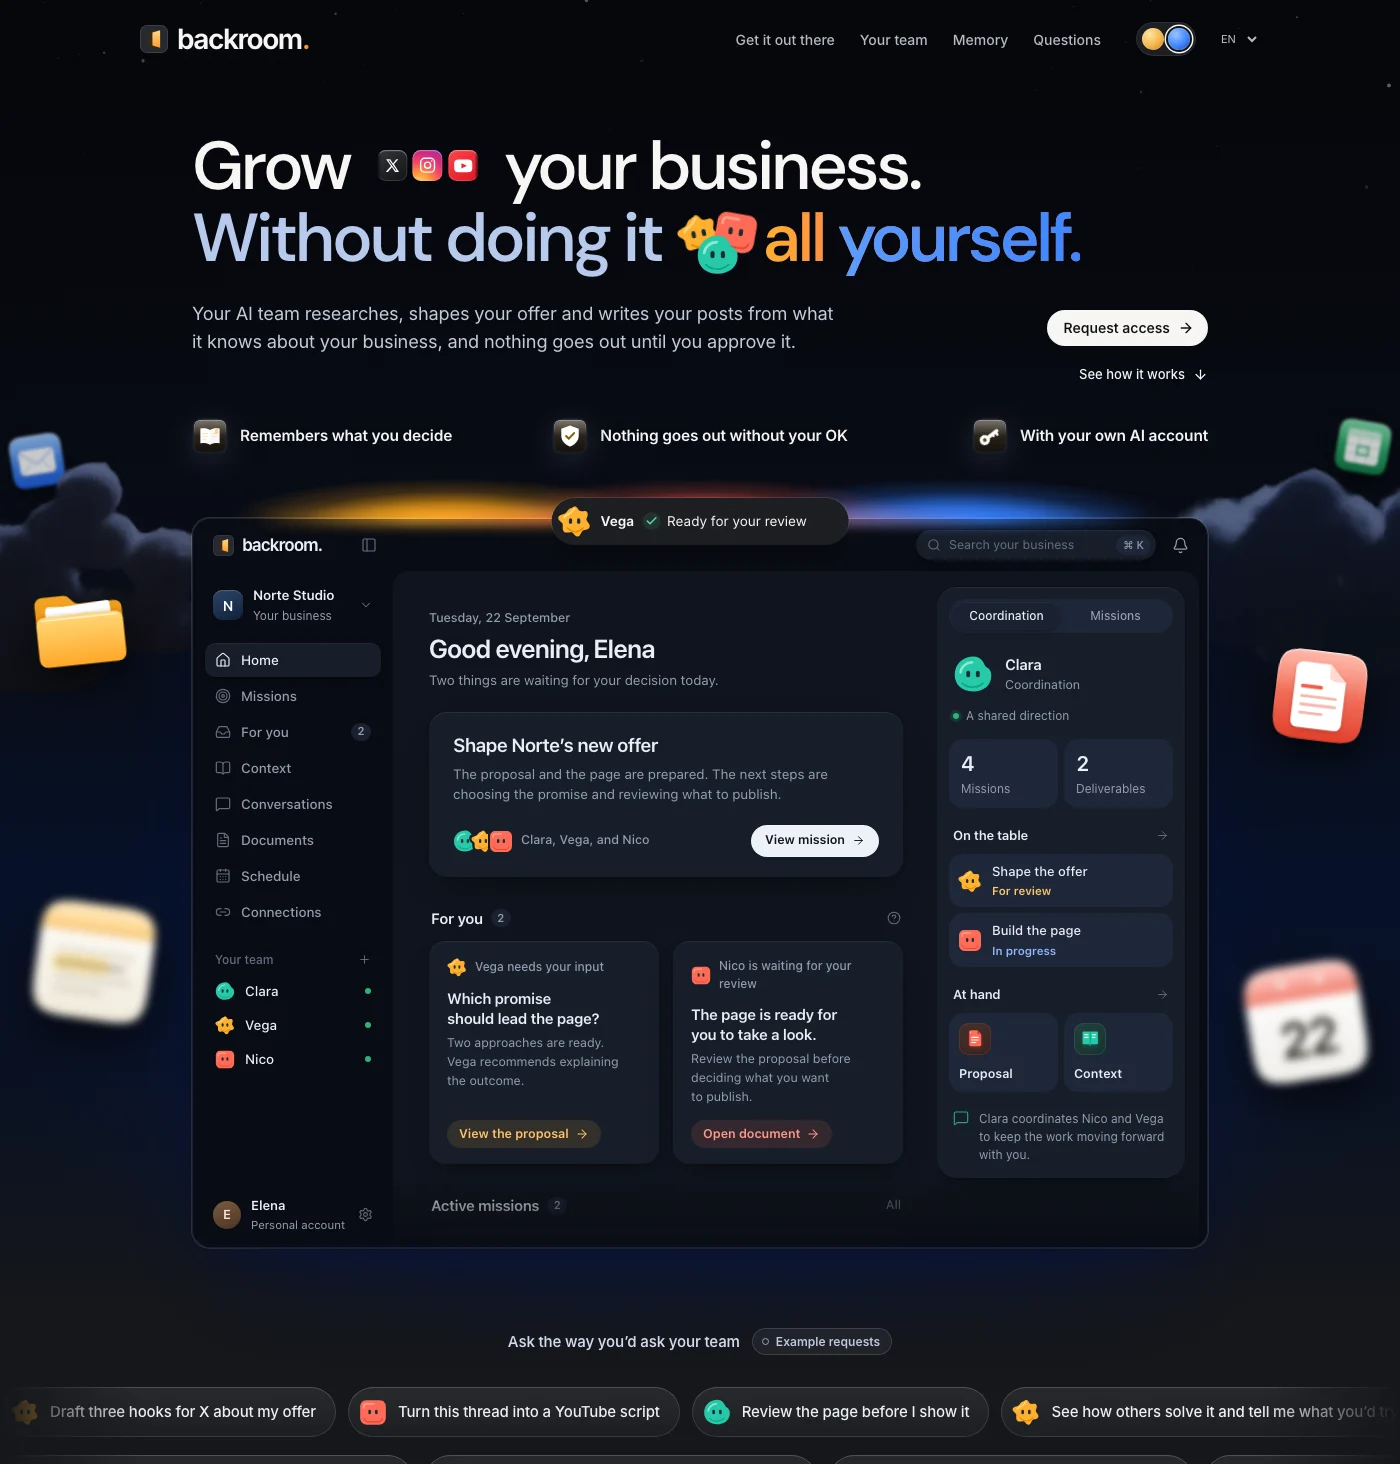
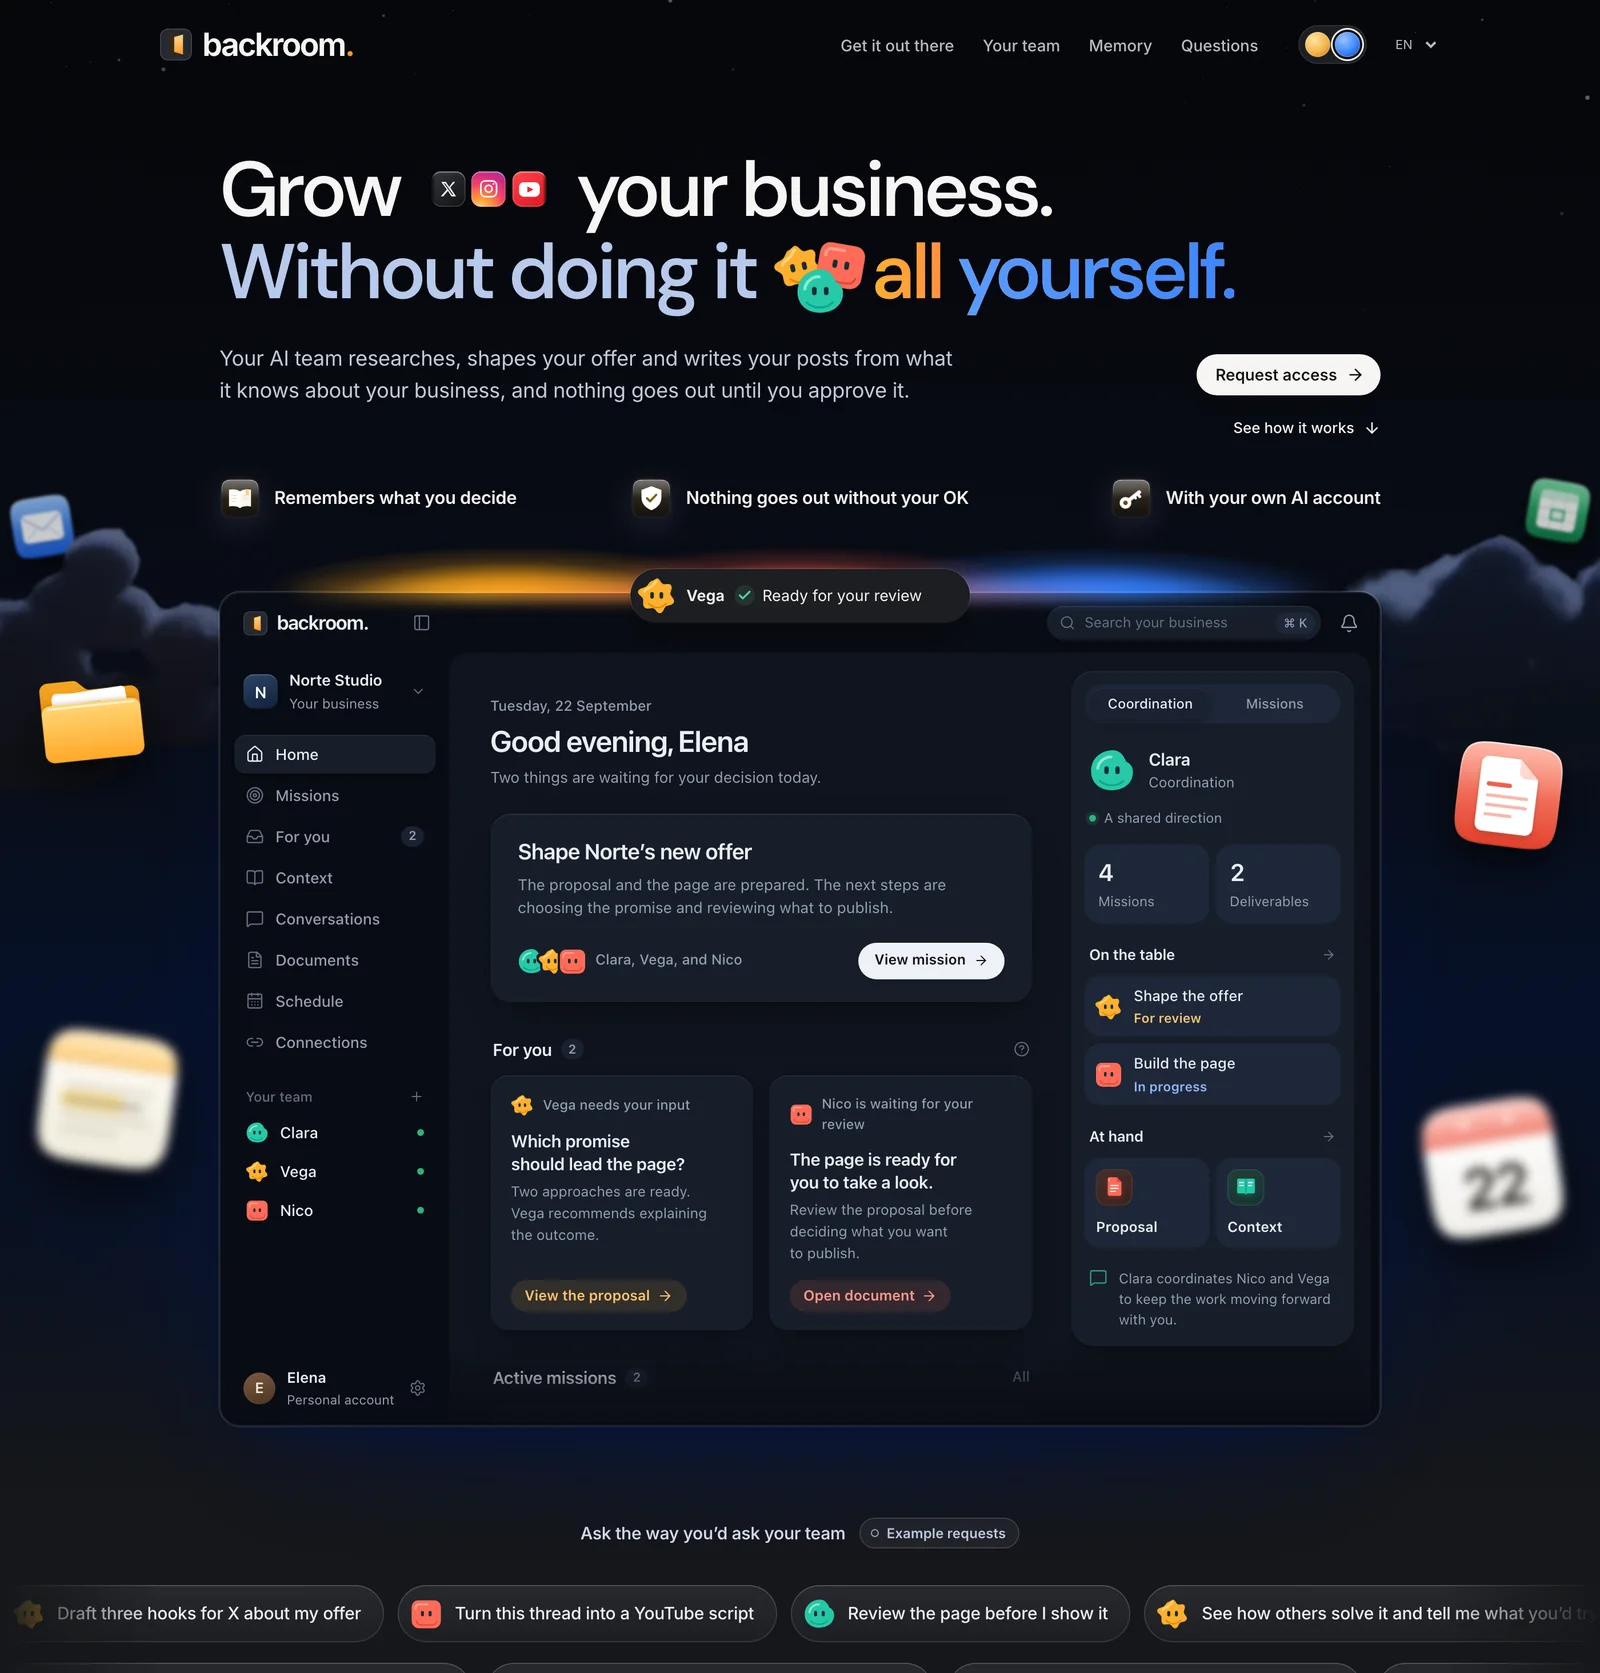
README con capturas de las dos paletas: azul primero, luego dorado

diff --git a/README.md b/README.md
@@ -1,12 +1,14 @@
 # Backroom
 
-Backroom is an open-source landing page for an AI agent product: a team of agents that runs the work of a small business while the owner decides. It is a Next.js site with a night sky drawn in CSS and WebGL, in two palettes, gold and night blue, four product screens built in HTML instead of screenshots, and copy in Spanish and English.
+Backroom is an open-source landing page for an AI agent product: a team of agents that runs the work of a small business while the owner decides. It is a Next.js site with a night sky drawn in CSS and WebGL, in two palettes, night blue and gold, four product screens built in HTML instead of screenshots, and copy in Spanish and English.
 
 The product it shows is fictional, and so is every name, number and screen in it. Take the page, change the words and the product, and ship it.
 
-![Backroom hero in the gold palette: a headline over a warm night sky, with the product window resting on clouds](.github/hero-gold.webp)
+![Backroom hero in the night blue palette: a headline over a night sky, with the product window resting on clouds](.github/hero-blue.webp)
 
-![The same hero in the night blue palette](.github/hero-blue.webp)
+![The same hero in the gold palette](.github/hero-gold.webp)
+
+![The hero on a phone, in blue and in gold](.github/mobile.webp)
 
 ## What is in the page
 
@@ -17,11 +19,17 @@ The product it shows is fictional, and so is every name, number and screen in it
   - a memory you correct in one sentence;
   - a phone inbox that asks for permission before anything is published.
 - **Questions and a signup form** that sends JSON to any endpoint you choose.
-- **Two palettes, gold and night blue,** with a switch in the header, Spanish and English, a pause button for every animation, and no animation when the visitor asks for reduced motion.
+- **Two palettes, night blue and gold,** with a switch in the header, Spanish and English, a pause button for every animation, and no animation when the visitor asks for reduced motion.
 
-![The distribution section: one mission with an X post, an Instagram carousel waiting for approval and a YouTube video in progress](.github/distribution.webp)
+![The distribution section in blue: one mission with an X post, an Instagram carousel waiting for approval and a YouTube video in progress](.github/distribution-blue.webp)
 
-![The team section: a conversation with an agent next to the task board it created](.github/team.webp)
+![The team section in gold: a conversation with an agent next to the task board it created](.github/team-gold.webp)
+
+![The memory section in blue: what the team knows about the business, and a correction you apply in one sentence](.github/memory-blue.webp)
+
+![The phone section in gold: an inbox that asks for permission before anything is published](.github/phone-gold.webp)
+
+![The signup section in blue](.github/signup-blue.webp)
 
 ## Run it
 
